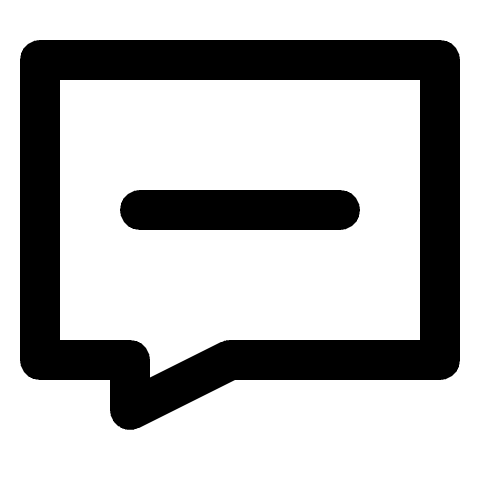
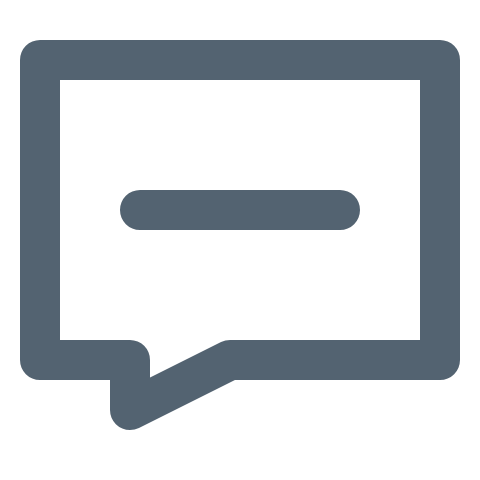
feat(uni_towel): 添加更多icon

Changed region(s): [[0.0312, 0.0625, 0.9688, 0.9062], [0.25, 0.375, 0.75, 0.5]]

diff --git a/uniapp_towelClient/src/pages/DetailPage/comment/comment.vue b/uniapp_towelClient/src/pages/DetailPage/comment/comment.vue
@@ -41,10 +41,11 @@
 			<!-- 三元运算判断发送什么，使用什么函数 -->
 			<!-- store.sendReply 发送回复  -->
 			<!-- sendComment 发送评论 -->
-			<view class="submitButton" type="submit"
-				@click="isShow ? store.sendReply(commentInput, props.postID) : sendComment()">发送
-			</view>	
-			<view class="sendSImage" @click="sendIMage">图片</view>
+			<image class="submitButton" type="submit"
+				@click="isShow ? store.sendReply(commentInput, props.postID) : sendComment()"
+				src="../../../static/Images/发送.svg">
+			</image>	
+			<image  class="sendSImage"  @click="sendIMage" src="../../../static/Images/图片添加.svg"></image>
 		</view>
 	</view>
 </template>
@@ -258,7 +259,7 @@ const sendComment = () => {
 
 .sendSImage {
 	height: 75rpx;
-	background-color: aqua;
+
 	width: 10%;
 	border-radius: 16rpx;
 }
@@ -292,7 +293,6 @@ const sendComment = () => {
 }
 
 .submitButton {
-	background-color: rgb(225, 219, 255);
 	height: 75rpx;
 	width: 10%;
 	border-radius: 16rpx;

diff --git a/uniapp_towelClient/src/pages/add/add.vue b/uniapp_towelClient/src/pages/add/add.vue
@@ -88,8 +88,8 @@ const dleImage = () => {
             </view>
         </view>
         <view class="bottomBox">
-            <view @click="chooseImage" class="addImage">添加图片</view>
-            <view class="add" @click="add">添加</view>
+            <image @click="chooseImage" class="addImage" src="/static/Images/图片添加.svg"></image>
+            <image class="add" @click="add" src="/static/Images/添加.svg"></image>
         </view>
     </view>
     <view v-else>
@@ -123,16 +123,12 @@ const dleImage = () => {
 .addImage {
     width: 100rpx;
     height: 100rpx;
-    background-color: aqua;
-    background-image: url("../../static/logo.png");
     background-size:cover
 }
 
 .add {
     width: 100rpx;
     height: 100rpx;
-    background-color: rgb(199, 66, 148);
-    background-image: url("../../static/logo.png");
     background-size:cover
 }
 
